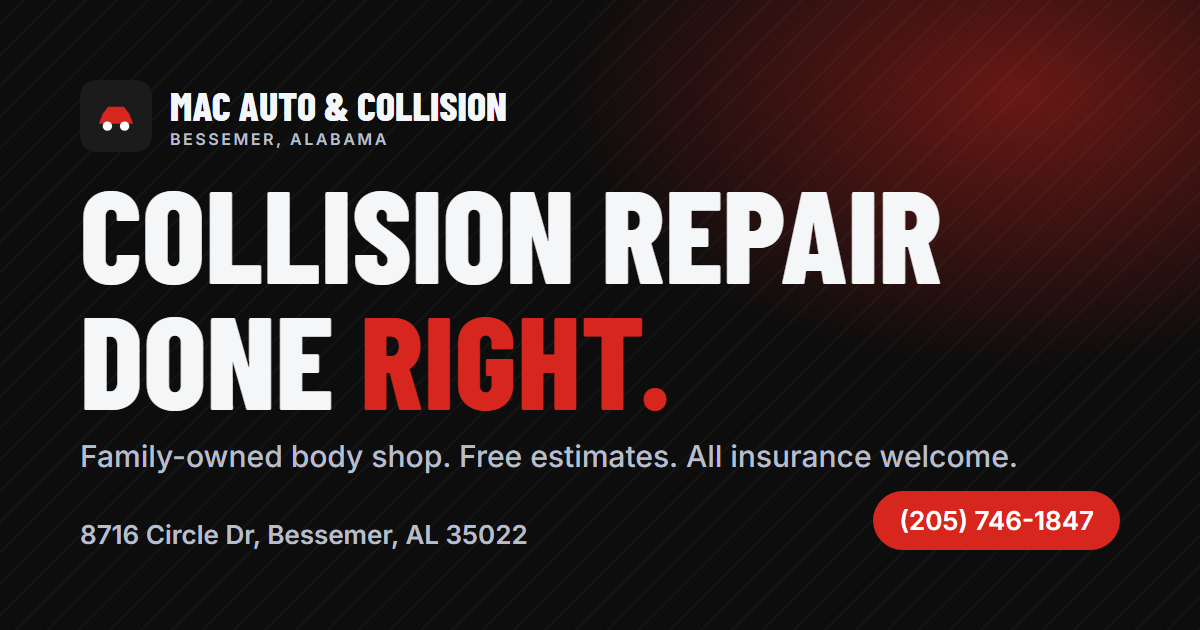
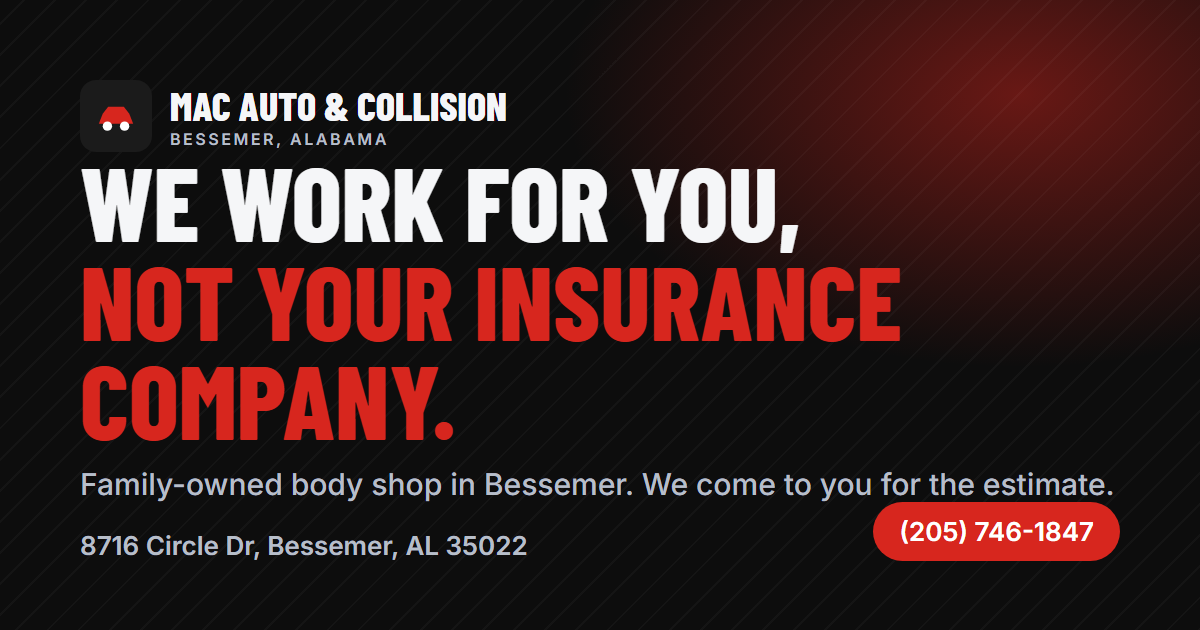
v1.8.0 the message: "We work for you", on-site estimating, who-works-for-you comparison, AI-estimate + deductible copy, form fields, Text Us, analytics IDs via admin

Changed region(s): [[0.0617, 0.2714, 0.9558, 0.9048], [0.0617, 0.8143, 0.4625, 0.9048]]

diff --git a/index.html b/index.html
@@ -4,7 +4,7 @@
 <meta charset="utf-8">
 <meta name="viewport" content="width=device-width, initial-scale=1">
 <title>Mac Auto &amp; Collision | Collision Repair &amp; Auto Body Shop in Bessemer, AL</title>
-<meta name="description" content="Mac Auto & Collision is a family-owned collision repair and auto body shop at 8716 Circle Dr in Bessemer, Alabama. Free estimates, all makes and models, insurance claims welcome. Call (205) 746-1847.">
+<meta name="description" content="Mac Auto & Collision is a family-owned collision repair shop in Bessemer, Alabama that works for you, not the insurance company. We come to you for the estimate, handle the claim, and fight for the repair you're owed. Call (205) 746-1847.">
 <meta name="theme-color" content="#141414">
 <link rel="canonical" href="https://www.macautoandcollision.com/">
 <meta property="og:type" content="website">
@@ -62,6 +62,7 @@
     --shadow:0 10px 30px rgba(20,24,29,.08);
   }
   *{box-sizing:border-box}
+  [hidden]{display:none !important}
   html{scroll-behavior:smooth;-webkit-text-size-adjust:100%}
   body{margin:0;font-family:Inter,system-ui,-apple-system,"Segoe UI",Roboto,sans-serif;color:var(--ink);background:var(--bg);line-height:1.6;font-size:17px}
   h1,h2,h3,.display{font-family:"Barlow Condensed",Inter,sans-serif;font-weight:800;letter-spacing:.005em;line-height:1.05;margin:0}
@@ -220,6 +221,22 @@
   .faq details[open] summary::after{content:"\2212"}
   .faq details p{color:var(--ink-2);margin:0 0 1.1rem}
 
+  /* on-site band + comparison */
+  .onsite-grid .card h3{font-size:1.3rem}
+  .compare{display:grid;grid-template-columns:repeat(3,1fr);gap:1.25rem;margin-top:.5rem}
+  @media (max-width:900px){.compare{grid-template-columns:1fr}}
+  .cmp{background:#1b1b1b;border:1px solid #2a2a2a;border-radius:var(--radius);padding:1.5rem}
+  .cmp h3{margin-bottom:.9rem;font-size:1.3rem;color:#bdbdbd}
+  .cmp ul{list-style:none;margin:0;padding:0;display:grid;gap:.6rem;color:#bdbdbd;font-size:.98rem}
+  .cmp li{padding-left:1.4rem;position:relative}
+  .cmp li::before{content:"\2013";position:absolute;left:0;color:#777}
+  .cmp-us{background:#241010;border-color:#5a1c16;box-shadow:0 0 0 1px rgba(215,38,30,.35)}
+  .cmp-us h3{color:#fff} .cmp-us ul{color:#f2f2f2}
+  .cmp-us li::before{content:"\2713";color:#ff6b62}
+  .cmp-note{margin-top:1.5rem;color:#bdbdbd;font-size:1.05rem;max-width:70ch}
+  .check-row{display:flex;gap:.6rem;align-items:center;font-weight:600;margin:-.25rem 0 1rem}
+  .check-row input{width:auto;margin:0;accent-color:var(--brand)}
+
   /* estimate form */
   .form-card{position:relative;background:#fff;border:1px solid var(--line);border-radius:var(--radius);padding:2rem;box-shadow:var(--shadow)}
   .form-row{display:grid;grid-template-columns:1fr 1fr;gap:1rem}
@@ -354,7 +371,7 @@
     <nav id="nav" aria-label="Main">
       <ul>
         <li><a href="#services">Services</a></li>
-        <li><a href="#process">How It Works</a></li>
+        <li><a href="#whoworks">Why Us</a></li>
         <li><a href="#insurance">Insurance</a></li>
         <li><a href="#about">About</a></li>
         <li><a href="#faq">FAQ</a></li>
@@ -379,10 +396,11 @@
   <div class="wrap">
     <div>
       <span class="eyebrow">Family-owned · Bessemer, Alabama · 30+ years</span>
-      <h1>Collision repair<br>done <span>right.</span></h1>
-      <p class="lede">From fender benders to major collision damage, Mac Auto &amp; Collision brings your vehicle back to pre-accident condition. All makes and models, honest estimates, and we handle the insurance paperwork with you.</p>
+      <h1 id="heroHeadline">We work for you,<br><span>not your insurance company.</span></h1>
+      <p class="lede" id="heroSub">Family-owned in Bessemer. We come to you for the estimate, handle the claim, and fight for the repair you're owed.</p>
       <div class="hero-actions">
-        <a class="btn btn-primary" href="#estimate">Get a Free Estimate</a>
+        <a class="btn btn-primary" href="#estimate">Request an On-Site Estimate</a>
+        <a class="btn btn-ghost js-sms" hidden href="#"><svg viewBox="0 0 24 24" fill="none" stroke="currentColor" stroke-width="2" stroke-linecap="round" stroke-linejoin="round"><path d="M21 15a2 2 0 0 1-2 2H7l-4 4V5a2 2 0 0 1 2-2h14a2 2 0 0 1 2 2z"/></svg> Text Us</a>
         <a class="btn btn-ghost" href="tel:+12057461847">
           <svg viewBox="0 0 24 24" fill="none" stroke="currentColor" stroke-width="2" stroke-linecap="round" stroke-linejoin="round"><path d="M22 16.9v3a2 2 0 0 1-2.2 2 19.8 19.8 0 0 1-8.6-3.1 19.5 19.5 0 0 1-6-6A19.8 19.8 0 0 1 2.1 4.2 2 2 0 0 1 4.1 2h3a2 2 0 0 1 2 1.7c.1.9.4 1.8.7 2.6a2 2 0 0 1-.5 2.1L8 9.7a16 16 0 0 0 6 6l1.3-1.3a2 2 0 0 1 2.1-.5c.8.3 1.7.6 2.6.7a2 2 0 0 1 1.7 2z"/></svg>
           Call the Shop
@@ -392,11 +410,11 @@
     <div class="hero-card">
       <h3>Been in an accident?</h3>
       <ul>
-        <li><svg viewBox="0 0 24 24" fill="none" stroke="currentColor" stroke-width="2.2" stroke-linecap="round" stroke-linejoin="round"><path d="M20 6 9 17l-5-5"/></svg><div><b>You choose the shop.</b> Alabama law lets you pick where your car is repaired, no matter what the insurer suggests.</div></li>
-        <li><svg viewBox="0 0 24 24" fill="none" stroke="currentColor" stroke-width="2.2" stroke-linecap="round" stroke-linejoin="round"><path d="M20 6 9 17l-5-5"/></svg><div><b>We work with all insurance companies.</b> Bring us the claim number and we take it from there.</div></li>
-        <li><svg viewBox="0 0 24 24" fill="none" stroke="currentColor" stroke-width="2.2" stroke-linecap="round" stroke-linejoin="round"><path d="M20 6 9 17l-5-5"/></svg><div><b>Free, no-pressure estimates.</b> Stop by the shop or send us photos to get started.</div></li>
-        <li><svg viewBox="0 0 24 24" fill="none" stroke="currentColor" stroke-width="2.2" stroke-linecap="round" stroke-linejoin="round"><path d="M20 6 9 17l-5-5"/></svg><div><b>Towing help.</b> Can't drive it? Call us and we'll help get your vehicle to the shop.</div></li>
-        <li><svg viewBox="0 0 24 24" fill="none" stroke="currentColor" stroke-width="2.2" stroke-linecap="round" stroke-linejoin="round"><path d="M20 6 9 17l-5-5"/></svg><div><b>Easy to find.</b> 8716 Circle Dr, Bessemer. <a href="https://www.google.com/maps/dir/?api=1&destination=8716+Circle+Dr,+Bessemer,+AL+35022" target="_blank" rel="noopener" style="color:#fff">Get directions</a>.</div></li>
+        <li><svg viewBox="0 0 24 24" fill="none" stroke="currentColor" stroke-width="2.2" stroke-linecap="round" stroke-linejoin="round"><path d="M20 6 9 17l-5-5"/></svg><div><b>You choose the shop.</b> Alabama law lets you pick. Your insurer can recommend a shop, not require one.</div></li>
+        <li><svg viewBox="0 0 24 24" fill="none" stroke="currentColor" stroke-width="2.2" stroke-linecap="round" stroke-linejoin="round"><path d="M20 6 9 17l-5-5"/></svg><div><b>We work for you.</b> Many shops are in insurer programs that reward keeping the insurer's costs down. We're independent. We're paid to fix your car properly.</div></li>
+        <li><svg viewBox="0 0 24 24" fill="none" stroke="currentColor" stroke-width="2.2" stroke-linecap="round" stroke-linejoin="round"><path d="M20 6 9 17l-5-5"/></svg><div><b>Don't accept the first estimate.</b> Insurers now write many first estimates from photos with software, and they run low. We inspect the whole car and file for the rest.</div></li>
+        <li><svg viewBox="0 0 24 24" fill="none" stroke="currentColor" stroke-width="2.2" stroke-linecap="round" stroke-linejoin="round"><path d="M20 6 9 17l-5-5"/></svg><div><b>Ask about your deductible.</b> We offer financing on deductibles and will walk you through your options before any work starts.</div></li>
+        <li><svg viewBox="0 0 24 24" fill="none" stroke="currentColor" stroke-width="2.2" stroke-linecap="round" stroke-linejoin="round"><path d="M20 6 9 17l-5-5"/></svg><div><b>We come to you.</b> On-site estimates at your home or work, towing help if it can't be driven, and pickup and delivery available. <a href="https://www.google.com/maps/dir/?api=1&destination=8716+Circle+Dr,+Bessemer,+AL+35022" target="_blank" rel="noopener" style="color:#fff">Directions to the shop</a>.</div></li>
       </ul>
     </div>
   </div>
@@ -405,13 +423,28 @@
 <div class="trust" aria-label="Highlights">
   <div class="wrap">
     <span><svg viewBox="0 0 24 24" fill="none" stroke="currentColor" stroke-width="2.2" stroke-linecap="round" stroke-linejoin="round"><path d="M20 6 9 17l-5-5"/></svg>Family Owned &amp; Operated</span>
-    <span><svg viewBox="0 0 24 24" fill="none" stroke="currentColor" stroke-width="2.2" stroke-linecap="round" stroke-linejoin="round"><path d="M20 6 9 17l-5-5"/></svg>All Makes &amp; Models</span>
-    <span><svg viewBox="0 0 24 24" fill="none" stroke="currentColor" stroke-width="2.2" stroke-linecap="round" stroke-linejoin="round"><path d="M20 6 9 17l-5-5"/></svg>Insurance Claims Welcome</span>
-    <span><svg viewBox="0 0 24 24" fill="none" stroke="currentColor" stroke-width="2.2" stroke-linecap="round" stroke-linejoin="round"><path d="M20 6 9 17l-5-5"/></svg>Free Estimates</span>
+    <span><svg viewBox="0 0 24 24" fill="none" stroke="currentColor" stroke-width="2.2" stroke-linecap="round" stroke-linejoin="round"><path d="M20 6 9 17l-5-5"/></svg>We Come To You</span>
+    <span><svg viewBox="0 0 24 24" fill="none" stroke="currentColor" stroke-width="2.2" stroke-linecap="round" stroke-linejoin="round"><path d="M20 6 9 17l-5-5"/></svg>Every Insurer Welcome</span>
+    <span><svg viewBox="0 0 24 24" fill="none" stroke="currentColor" stroke-width="2.2" stroke-linecap="round" stroke-linejoin="round"><path d="M20 6 9 17l-5-5"/></svg>Deductible Financing</span>
   </div>
 </div>
 
-<section id="services">
+<section id="onsite">
+  <div class="wrap">
+    <div class="section-head">
+      <span class="eyebrow">On-site estimating</span>
+      <h2>We come to you.</h2>
+      <p class="lede">Can't get to the shop? Tell us where the car is and we'll come look at it: your driveway, your workplace, the tow yard. You get a written estimate on the spot and we take the claim from there.</p>
+    </div>
+    <div class="grid grid-3 onsite-grid">
+      <div class="card"><div class="icon"><svg viewBox="0 0 24 24" fill="none" stroke="currentColor" stroke-width="1.8" stroke-linecap="round" stroke-linejoin="round"><path d="M20 10c0 6-8 12-8 12s-8-6-8-12a8 8 0 0 1 16 0z"/><circle cx="12" cy="10" r="3"/></svg></div><h3>Estimates where the car is</h3><p>Home, work, or wherever it was towed. No day off work, no second trip. Tell us the address in the form below or call.</p></div>
+      <div class="card"><div class="icon"><svg viewBox="0 0 24 24" fill="none" stroke="currentColor" stroke-width="1.8" stroke-linecap="round" stroke-linejoin="round"><path d="M5 17H3v-5l2-5h14l2 5v5h-2"/><circle cx="7.5" cy="17" r="2"/><circle cx="16.5" cy="17" r="2"/><path d="M9.5 17h5M3 12h18"/></svg></div><h3>Pickup and delivery</h3><p>We can pick the vehicle up for repair and bring it back when it's done. Ask when you call; we'll tell you what's possible for your location.</p></div>
+      <div class="card"><div class="icon"><svg viewBox="0 0 24 24" fill="none" stroke="currentColor" stroke-width="1.8" stroke-linecap="round" stroke-linejoin="round"><rect x="3" y="4" width="18" height="16" rx="2"/><path d="M3 10h18M8 15h4"/></svg></div><h3>We handle the paperwork</h3><p>Claim number, adjuster, supplements, parts. You get updates and a finished car. Your time is the thing we save most.</p></div>
+    </div>
+  </div>
+</section>
+
+<section class="alt" id="services">
   <div class="wrap">
     <div class="section-head">
       <span class="eyebrow">What we do</span>
@@ -446,14 +479,14 @@
       </div>
       <div class="card">
         <div class="icon"><svg viewBox="0 0 24 24" fill="none" stroke="currentColor" stroke-width="1.8" stroke-linecap="round" stroke-linejoin="round"><rect x="3" y="4" width="18" height="16" rx="2"/><path d="M3 10h18M8 15h4"/></svg></div>
-        <h3>Estimates &amp; Insurance Claims</h3>
-        <p>Free on-site estimates, or send photos for a virtual estimate. We work directly with your insurance adjuster and handle supplements if hidden damage turns up.</p>
+        <h3>Claims Handling</h3>
+        <p>Full teardown inspection, not a photo guess. We document every bit of damage, deal with your adjuster directly, and file supplements so the repair you're owed is the repair you get.</p>
       </div>
     </div>
   </div>
 </section>
 
-<section class="alt" id="process">
+<section id="process">
   <div class="wrap">
     <div class="section-head">
       <span class="eyebrow">How it works</span>
@@ -461,11 +494,27 @@
       <p class="lede">Accidents are stressful enough. The repair shouldn't be. Here's what to expect when you bring your vehicle to us.</p>
     </div>
     <div class="steps">
-      <div class="step"><h3>Get an estimate</h3><p>Drive in during business hours or send us photos. We write a clear, itemized estimate at no charge and no obligation.</p></div>
+      <div class="step"><h3>We come look at it</h3><p>At your home, your work or our shop, whichever is easier for you. You get a clear, itemized estimate at no charge and no obligation.</p></div>
       <div class="step"><h3>We handle the claim</h3><p>Give us your claim number and we coordinate with the adjuster, negotiate the repair plan and order OEM or quality parts.</p></div>
       <div class="step"><h3>Repair &amp; refinish</h3><p>Body, frame, mechanical and paint work done in-house. We keep you updated and call you if anything changes.</p></div>
       <div class="step"><h3>Inspect &amp; drive home</h3><p>Every repair is checked, cleaned and reviewed with you before you pick it up. We stand behind our work.</p></div>
     </div>
+  </div>
+</section>
+
+<section class="alt" id="whoworks">
+  <div class="wrap">
+    <div class="section-head">
+      <span class="eyebrow">Why an independent shop</span>
+      <h2>Who does your body shop work for?</h2>
+      <p class="lede">Your insurance company may steer you toward a shop in its own repair program. That shop is paid, in part, to keep the insurer's costs down. We're independent, and we work for the person who owns the car.</p>
+    </div>
+    <div class="compare">
+      <div class="cmp"><h3>Insurer-program shop</h3><ul><li>Contracted with the insurance company</li><li>Rewarded for keeping claim costs low</li><li>Often starts from the insurer's software estimate</li><li>You bring the car to them</li></ul></div>
+      <div class="cmp"><h3>Dealership body shop</h3><ul><li>Sells parts and labor hours</li><li>Replaces more than it repairs</li><li>Standard process, standard timeline</li><li>You bring the car to them</li></ul></div>
+      <div class="cmp cmp-us"><h3>Mac Auto &amp; Collision</h3><ul><li>Independent. Works for the vehicle owner</li><li>Full teardown inspection, supplements filed for hidden damage</li><li>Repairs when repair is the better outcome</li><li>We come to you, and can pick up and deliver</li></ul></div>
+    </div>
+    <p class="cmp-note">Allen spent years inside the insurance industry. He knows how claims are written, and he uses that for you.</p>
   </div>
 </section>
 
@@ -479,6 +528,8 @@
         <li><svg viewBox="0 0 24 24" fill="none" stroke="currentColor" stroke-width="2.2" stroke-linecap="round" stroke-linejoin="round"><path d="M20 6 9 17l-5-5"/></svg><div><b>We work with every insurance carrier</b><span>State Farm, Allstate, Progressive, GEICO, USAA, Alfa and the rest. If your policy covers it, we can repair it.</span></div></li>
         <li><svg viewBox="0 0 24 24" fill="none" stroke="currentColor" stroke-width="2.2" stroke-linecap="round" stroke-linejoin="round"><path d="M20 6 9 17l-5-5"/></svg><div><b>One estimate is all you need</b><span>Alabama does not require multiple estimates. Bring us the claim and we'll take it from there.</span></div></li>
         <li><svg viewBox="0 0 24 24" fill="none" stroke="currentColor" stroke-width="2.2" stroke-linecap="round" stroke-linejoin="round"><path d="M20 6 9 17l-5-5"/></svg><div><b>We handle supplements</b><span>If we find hidden damage once the vehicle is apart, we document it and work it out with the adjuster, not you.</span></div></li>
+        <li><svg viewBox="0 0 24 24" fill="none" stroke="currentColor" stroke-width="2.2" stroke-linecap="round" stroke-linejoin="round"><path d="M20 6 9 17l-5-5"/></svg><div><b>Got a low estimate from the insurer?</b><span>Many first estimates are written by software from photos before anyone lifts a panel. Bring it to us. We inspect the whole car and send them the difference.</span></div></li>
+        <li><svg viewBox="0 0 24 24" fill="none" stroke="currentColor" stroke-width="2.2" stroke-linecap="round" stroke-linejoin="round"><path d="M20 6 9 17l-5-5"/></svg><div><b>Ask about your deductible</b><span>We offer financing on deductibles and will explain your options before any work starts, so cost isn't the reason you skip a repair.</span></div></li>
         <li><svg viewBox="0 0 24 24" fill="none" stroke="currentColor" stroke-width="2.2" stroke-linecap="round" stroke-linejoin="round"><path d="M20 6 9 17l-5-5"/></svg><div><b>Paying out of pocket?</b><span>No claim, no problem. We'll give you an honest price and repair options that fit your budget.</span></div></li>
       </ul>
     </div>
@@ -490,7 +541,7 @@
   </div>
 </section>
 
-<section class="alt" id="about">
+<section id="about">
   <div class="wrap split">
     <div class="stat-grid">
       <div class="stat"><div class="display">30+</div><p>Years serving Bessemer and the surrounding area</p></div>
@@ -549,7 +600,7 @@
     <div>
       <span class="eyebrow">Free estimate</span>
       <h2>Tell us about the damage</h2>
-      <p class="lede">Fill this out and we'll get back to you with next steps, usually the same business day. Or skip the form and call us directly at <a href="tel:+12057461847" style="white-space:nowrap">(205) 746-1847</a>.</p>
+      <p class="lede">Tell us where the car is and we'll come look at it, usually the same business day. Or skip the form and call us at <a href="tel:+12057461847" style="white-space:nowrap">(205) 746-1847</a>.</p>
       <ul class="checks">
         <li><svg viewBox="0 0 24 24" fill="none" stroke="currentColor" stroke-width="2.2" stroke-linecap="round" stroke-linejoin="round"><path d="M20 6 9 17l-5-5"/></svg><div><b>Have photos?</b><span>Mention it in the form and we'll reply with where to send them for a virtual estimate.</span></div></li>
         <li><svg viewBox="0 0 24 24" fill="none" stroke="currentColor" stroke-width="2.2" stroke-linecap="round" stroke-linejoin="round"><path d="M20 6 9 17l-5-5"/></svg><div><b>Prefer to drop by?</b><span>Walk-in estimates are welcome Monday through Friday, <span class="js-hours-weekday">8:00 AM – 5:00 PM</span>.</span></div></li>
@@ -571,12 +622,13 @@
         <option>No, paying out of pocket</option>
         <option>Not sure yet</option>
       </select>
-      <label for="besttime">Best time to call you</label>
-      <select id="besttime" name="besttime">
-        <option>Anytime during business hours</option>
-        <option>Morning (8 to 12)</option>
-        <option>Afternoon (12 to 5)</option>
-      </select>
+      <label for="location">Where is the vehicle? (address, or "at the shop")</label>
+      <input id="location" name="location" placeholder="Street address, workplace, or tow yard" autocomplete="street-address">
+      <label class="check-row"><input type="checkbox" id="onsite" name="onsite" value="yes" checked> Please come to me for the estimate</label>
+      <div class="form-row">
+        <div><label for="reach">Best way to reach you</label><select id="reach" name="reach"><option>Call</option><option>Text</option><option>Email</option></select></div>
+        <div><label for="besttime">Best time</label><select id="besttime" name="besttime"><option>Anytime during business hours</option><option>Morning (8 to 12)</option><option>Afternoon (12 to 5)</option></select></div>
+      </div>
       <label for="details">What happened?</label>
       <textarea id="details" name="details" placeholder="Describe the damage and where it is on the vehicle. Let us know if the vehicle is drivable."></textarea>
       <div style="position:absolute;left:-9999px" aria-hidden="true"><label for="website_url">Leave this empty</label><input id="website_url" name="_gotcha" tabindex="-1" autocomplete="off"></div>
@@ -655,7 +707,8 @@
 
 <div class="callbar" aria-label="Quick actions">
   <a class="btn btn-primary" href="tel:+12057461847">Call Now</a>
-  <a class="btn btn-dark" href="#estimate">Free Estimate</a>
+  <a class="btn btn-dark js-sms" hidden href="#">Text Us</a>
+  <a class="btn btn-dark" href="#estimate">Estimate</a>
 </div>
 
 <script>
@@ -698,6 +751,11 @@
       document.querySelectorAll('.js-hours-weekday').forEach(function(el){ el.textContent = wk; });
       document.querySelectorAll('.js-hours-weekend').forEach(function(el){ el.textContent = c.hours.weekend || 'Closed'; });
     }
+    if (c.headline && String(c.headline).trim()){ var hh = document.getElementById('heroHeadline'); var parts = String(c.headline).split('|'); hh.innerHTML = esc(parts[0].trim()) + (parts[1] ? '<br><span>' + esc(parts[1].trim()) + '</span>' : ''); }
+    if (c.subheadline && String(c.subheadline).trim()){ document.getElementById('heroSub').textContent = c.subheadline; }
+    if (c.sms_number){ var smsDigits = String(c.sms_number).replace(/\D/g, ''); if (smsDigits.length >= 10){ var smsHref = 'sms:+1' + smsDigits.slice(-10) + '?&body=' + encodeURIComponent("Hi, I'd like an estimate for my vehicle."); document.querySelectorAll('.js-sms').forEach(function(a){ a.href = smsHref; a.hidden = false; }); } }
+    if (c.cloudflare_analytics_token && /^[a-f0-9]{32}$/i.test(String(c.cloudflare_analytics_token).trim())){ var cf = document.createElement('script'); cf.defer = true; cf.src = 'https://static.cloudflareinsights.com/beacon.min.js'; cf.setAttribute('data-cf-beacon', JSON.stringify({ token: String(c.cloudflare_analytics_token).trim() })); document.head.appendChild(cf); }
+    if (c.clarity_project_id && /^[a-z0-9]{6,20}$/i.test(String(c.clarity_project_id).trim())){ var cid = String(c.clarity_project_id).trim(); window.clarity = window.clarity || function(){ (window.clarity.q = window.clarity.q || []).push(arguments); }; var cl = document.createElement('script'); cl.async = true; cl.src = 'https://www.clarity.ms/tag/' + cid; document.head.appendChild(cl); }
     if (c.announcement && c.announcement.trim()){ document.getElementById('announceText').textContent = c.announcement; document.getElementById('announce').hidden = false; }
     if (c.hero_image && String(c.hero_image).trim()){
       var hero = document.getElementById('top'), url = 'url("' + img(c.hero_image).replace(/"/g, '') + '")';
@@ -764,13 +822,13 @@
     if (missing.length){ form[missing[0]].focus(); show('Please fill in your name, phone and vehicle so we can reach you.'); return; }
     var f = form, lines = [
       'Name: ' + f.name.value, 'Phone: ' + f.phone.value, 'Email: ' + (f.email.value || 'n/a'),
-      'Vehicle: ' + f.vehicle.value, 'Insurance: ' + f.claim.value, 'Best time to call: ' + f.besttime.value, '', 'Details:', f.details.value
+      'Vehicle: ' + f.vehicle.value, 'Insurance: ' + f.claim.value, 'Vehicle location: ' + (f.location.value || 'not given'), 'Come to me for the estimate: ' + (f.onsite.checked ? 'yes' : 'no'), 'Reach me by: ' + f.reach.value, 'Best time: ' + f.besttime.value, '', 'Details:', f.details.value
     ];
     var btn = form.querySelector('button[type=submit]');
     if (FORM_ENDPOINT){
       btn.disabled = true; btn.textContent = 'Sending…';
       fetch(FORM_ENDPOINT, { method:'POST', headers:{'Accept':'application/json','Content-Type':'application/json'},
-        body: JSON.stringify({ name:f.name.value, phone:f.phone.value, email:f.email.value, vehicle:f.vehicle.value, claim:f.claim.value, besttime:f.besttime.value, details:f.details.value, _gotcha:f._gotcha.value, _subject:'Estimate request: ' + f.vehicle.value + ' (' + f.name.value + ')', _replyto:f.email.value }) })
+        body: JSON.stringify({ name:f.name.value, phone:f.phone.value, email:f.email.value, vehicle:f.vehicle.value, claim:f.claim.value, location:f.location.value, onsite:f.onsite.checked ? 'yes' : 'no', reach:f.reach.value, besttime:f.besttime.value, details:f.details.value, _gotcha:f._gotcha.value, _subject:'Estimate request: ' + f.vehicle.value + ' (' + f.name.value + ')', _replyto:f.email.value }) })
       .then(function(r){ if(!r.ok) throw new Error(r.status); var who = f.name.value.trim(); form.reset(); show('Thanks, ' + who + '. We got your request and will call you back shortly, usually the same business day.'); })
       .catch(function(){ show('Sorry, something went wrong sending the form. Please call us at ' + SHOP_PHONE_DISPLAY + '.'); })
       .finally(function(){ btn.disabled = false; btn.textContent = 'Request My Free Estimate'; });

diff --git a/test.js b/test.js
@@ -57,7 +57,7 @@ if (exists('content/faq.json')) {
 
 console.log('index.html');
 const html = read('index.html');
-['top', 'services', 'process', 'insurance', 'about', 'gallery', 'reviews', 'estimate', 'contact', 'estimateForm', 'formMsg', 'announce', 'aboutText', 'galleryGrid', 'reviewGrid']
+['top', 'onsite', 'services', 'process', 'whoworks', 'insurance', 'about', 'gallery', 'reviews', 'faq', 'estimate', 'contact', 'estimateForm', 'formMsg', 'announce', 'aboutText', 'galleryGrid', 'reviewGrid', 'heroHeadline', 'heroSub']
   .forEach((id) => check(html.includes('id="' + id + '"'), 'has #' + id));
 check(!html.includes(SHOP.oldPhone), 'no old phone number (' + SHOP.oldPhone + ')');
 check(!html.includes(SHOP.oldStreet), 'no old street (' + SHOP.oldStreet + ')');

diff --git a/docs/OWNER_ACTION_ITEMS.md b/docs/OWNER_ACTION_ITEMS.md
@@ -75,7 +75,27 @@ Today the form opens the visitor's own email app. With Formspree the request is 
 ## 11. One-click admin login (optional, 20 minutes, only if several people will edit)
 - [ ] Follow `docs/ONE_CLICK_LOGIN.md` in the website folder (or ask Alex). It is a free Cloudflare account plus a GitHub "OAuth App"; no monthly cost. After it, editors click **Sign in with GitHub** instead of pasting a token.
 
-## 12. Later ideas (ask Alex)
+## 12. Turn on traffic monitoring (10 minutes, free)
+Recommended pair: Google Search Console (what people searched to find you) and Cloudflare Web Analytics (how many visits, from where, which pages). Both free, no cookie banner needed.
+- [ ] **Cloudflare Web Analytics**: sign in at https://dash.cloudflare.com (free account) → **Web Analytics** → **Add a site** → enter `macautoandcollision.com` → choose "JS snippet" → copy the 32-character token from the snippet (`"token":"..."`). Admin page → **Contact, Hours & About** → paste into **Cloudflare Web Analytics token** → **Save**. Visits show in the Cloudflare dashboard within a day.
+- [ ] **Google Search Console**: sign in at https://search.google.com/search-console with the shop's Google account → **Add property** → **URL prefix** → `https://www.macautoandcollision.com` → choose the **HTML file** method → download the file → send it to Alex to put in the site folder (or use the DNS method at Porkbun) → click **Verify**. Then **Sitemaps** → add `sitemap.xml`.
+- [ ] Optional: **Microsoft Clarity** (free heatmaps and session replays): https://clarity.microsoft.com → sign in → **Add new project** → copy the Project ID → paste into **Microsoft Clarity project ID** in the admin page → **Save**.
+
+## 13. Decisions still needed for the new message (answer these and Alex finishes the copy)
+- [ ] **Deductibles**: what may be said publicly? Site currently says financing only. Check with the shop's insurance agent or an attorney before adding "reduce" or "waive".
+- [ ] **Text messages**: can (205) 746-1847 receive texts? If not, is there a mobile number to use? Enter it in admin → *Text-message number* to switch the Text Us buttons on.
+- [ ] **On-site estimates**: how far, which days/hours, any charge?
+- [ ] **Pickup and delivery**: radius, cost, free with a repair?
+- [ ] **Deductible financing**: through whom, typical terms?
+- [ ] **Allen's insurance background**: one sentence (role, years).
+- [ ] **Team**: three names, roles, years, one photo each. OK to publish names?
+- [ ] **Warranty** on workmanship: yes/no, how long?
+- [ ] **Turnaround**: typical days for small / medium / large repairs.
+- [ ] **Vehicle security**: what is in place (fence, cameras, indoor)?
+- [ ] **Commercial/fleet accounts**: acceptable wording without names?
+- [ ] **"Mac Snap" on-site estimating**: keep the name or drop it?
+
+## 14. Later ideas (ask Alex)
 - [ ] **Spanish page**, **online drop-off request**, **insurance partner logos**: see `docs/ROADMAP.md` Phase 6.
 
 ## Every September (domain renews 17 Sept)

diff --git a/docs/CHANGELOG.md b/docs/CHANGELOG.md
@@ -2,6 +2,21 @@
 
 Newest first. One entry per shipped phase of `docs/ROADMAP.md`. Every entry was verified with `npm test` and a local render before it was pushed (a push is a deploy).
 
+## 1.8.0 — 2026-09-17 — The message from the 17 Sept meeting
+- Headline is now "We work for you, not your insurance company." with the sub-line "Family-owned in Bessemer. We come to you for the estimate, handle the claim, and fight for the repair you're owed." Both can be overridden from /admin (Headline, Sub-headline).
+- Primary button: "Request an On-Site Estimate". A "Text Us" button appears (hero and phone bar) once a text-capable number is entered in /admin.
+- Hero checklist rewritten: you choose the shop, we work for you, don't accept the first estimate, ask about your deductible, we come to you.
+- New "We come to you" band under the trust strip: on-site estimates, pickup and delivery, we handle the paperwork.
+- New "Who does your body shop work for?" comparison (insurer-program shop / dealership / us) with a line on Allen's insurance background. "Why Us" in the menu.
+- Claims Handling card replaces "Estimates & Insurance Claims"; step 1 of the process is "We come look at it".
+- Insurance section gains "Got a low estimate?" and "Ask about your deductible" (financing wording only).
+- Five FAQ entries added: the insurer's estimate, why it's low, keeping the check, what on-site means, deductible help.
+- Form asks where the vehicle is, whether to come to you, and how to reach you (call / text / email).
+- Trust strip: Family owned · We come to you · Every insurer welcome · Deductible financing.
+- Traffic monitoring ready: paste a Cloudflare Web Analytics token or a Microsoft Clarity project ID in /admin and the tracking script loads. Nothing loads until one is set.
+
+**How to test:** open the site; new headline and red button. Scroll: "We come to you" band, then services, then the three-column "Who does your body shop work for?". FAQ has 14 questions. The form has "Where is the vehicle?" and a checked "Please come to me" box. Text Us is hidden until a number is set.
+
 ## 1.7.2 — 2026-09-17 — Background photo scaling
 - A tall or square background photo used to be blown up to fill the wide banner, so only a zoomed slice showed. Now the site checks the photo's shape: wide photos still fill the banner; tall or square ones are shown whole, centered, over a blurred copy of themselves that fills the rest. On phones the photo fills the (tall) hero as before.
 - Tip for the shop: the sharper the original, the better. A photo at least 1600 px wide is ideal; the current one is 371 px and will look soft on large screens.

diff --git a/README.md b/README.md
@@ -56,6 +56,12 @@ Every save is a commit in the GitHub repo, so nothing is ever lost and any chang
 ## Design
 Chosen by the shop on 2026-09-17 from five rendered mockups: black page (#141414), graphite cards (#1B1B1B), red accent (#D7261E), silver text; layout unchanged from launch. The look lives in the `/* ===== Theme` block at the end of the `<style>` in `index.html`; the rules above it are the original orange look, so a re-skin is a matter of editing that block. Mockup images: `C:\AMAC_REPO\Mac Auto design mockups\` (not in the repo).
 
+**Message** (since v1.8.0, from the 17 Sept 2026 meeting): headline "We work for you, not your insurance company", on-site estimating band, "Who does your body shop work for?" comparison, AI-estimate and deductible bullets/FAQs. Deductible wording is deliberately limited to financing until the shop's agent or attorney confirms what else may be advertised. Headline and sub-headline can be overridden in admin → Contact, Hours & About.
+
+**Text Us buttons** appear only when *Text-message number* is filled in (the number must be able to receive SMS).
+
+**Traffic monitoring**: admin → Contact, Hours & About → paste a *Cloudflare Web Analytics token* and/or a *Microsoft Clarity project ID*; the page loads the matching script only when a value is present and looks valid. Google Search Console needs a one-time HTML file in the repo root or a DNS TXT record at Porkbun (ask Alex).
+
 **Background photo** (admin → Contact, Hours & About): shown faded behind the headline. Wide photos fill the banner; tall or square ones are shown whole over a blurred copy (decided automatically from the photo's shape). *Background photo fade* picks Light / Medium / Dark. Ask the shop for originals of 1600 px or wider; small files look soft.
 
 ## Roadmap, changelog and yearly checklist
